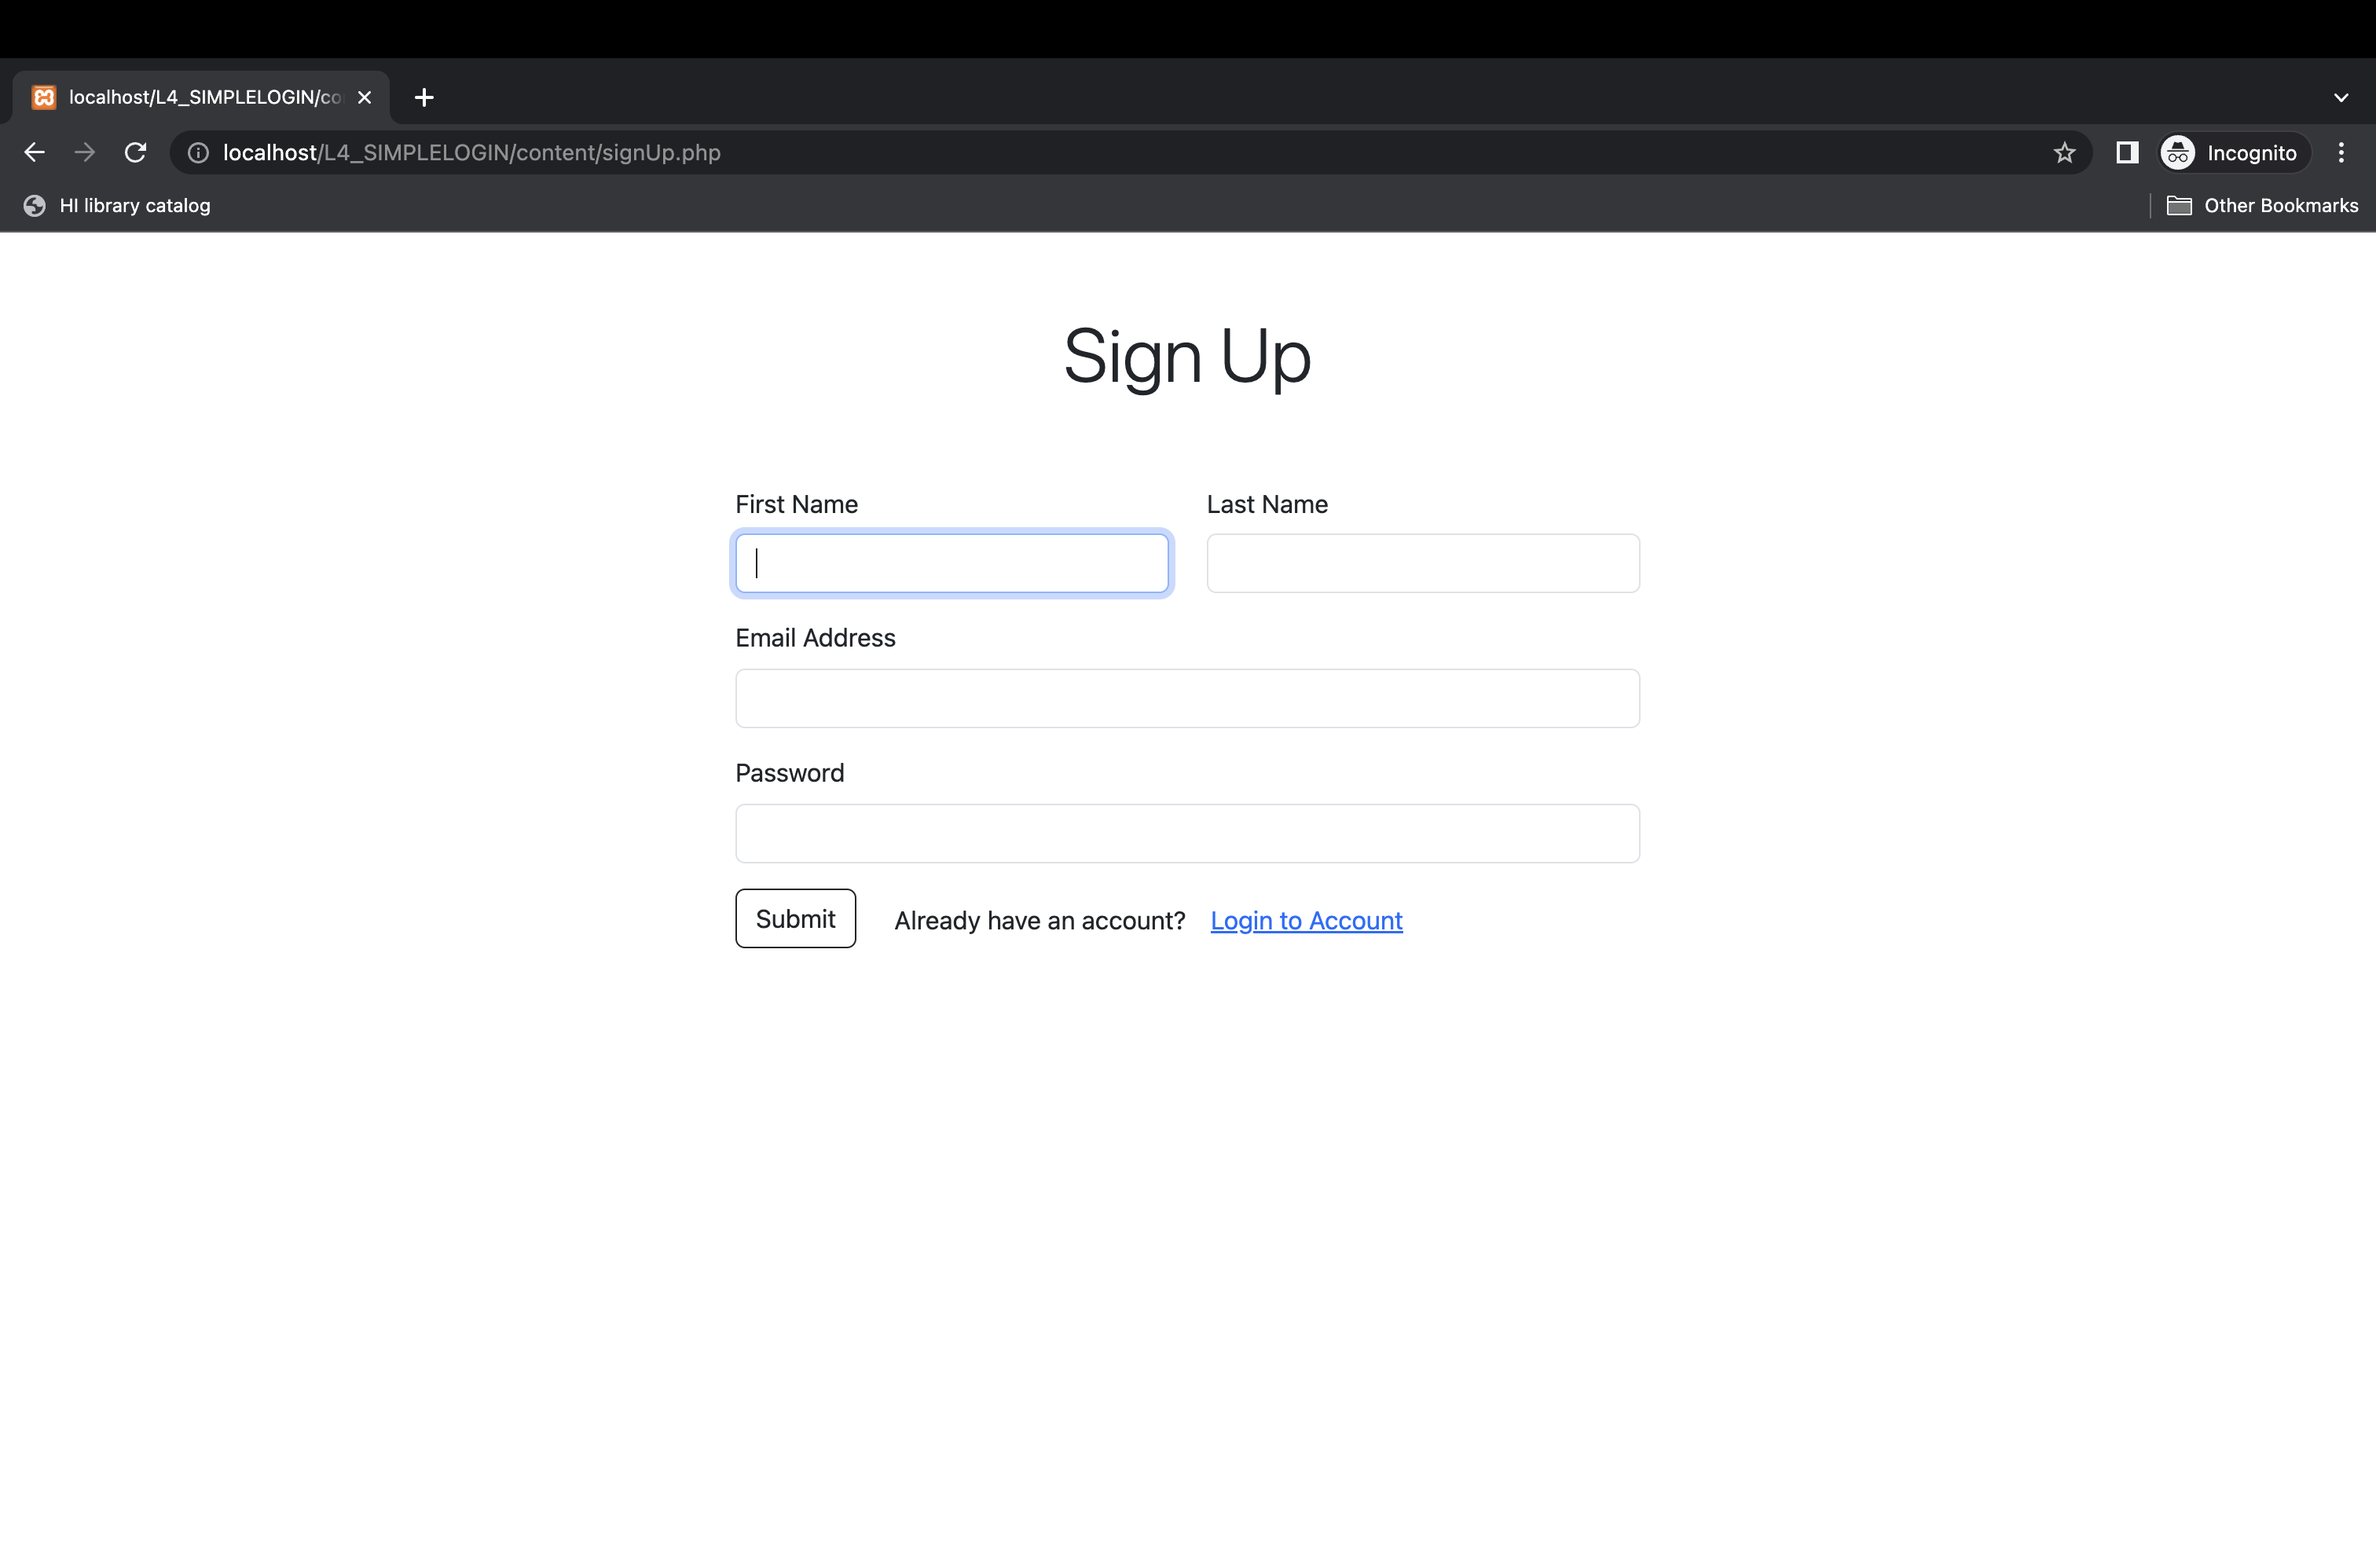
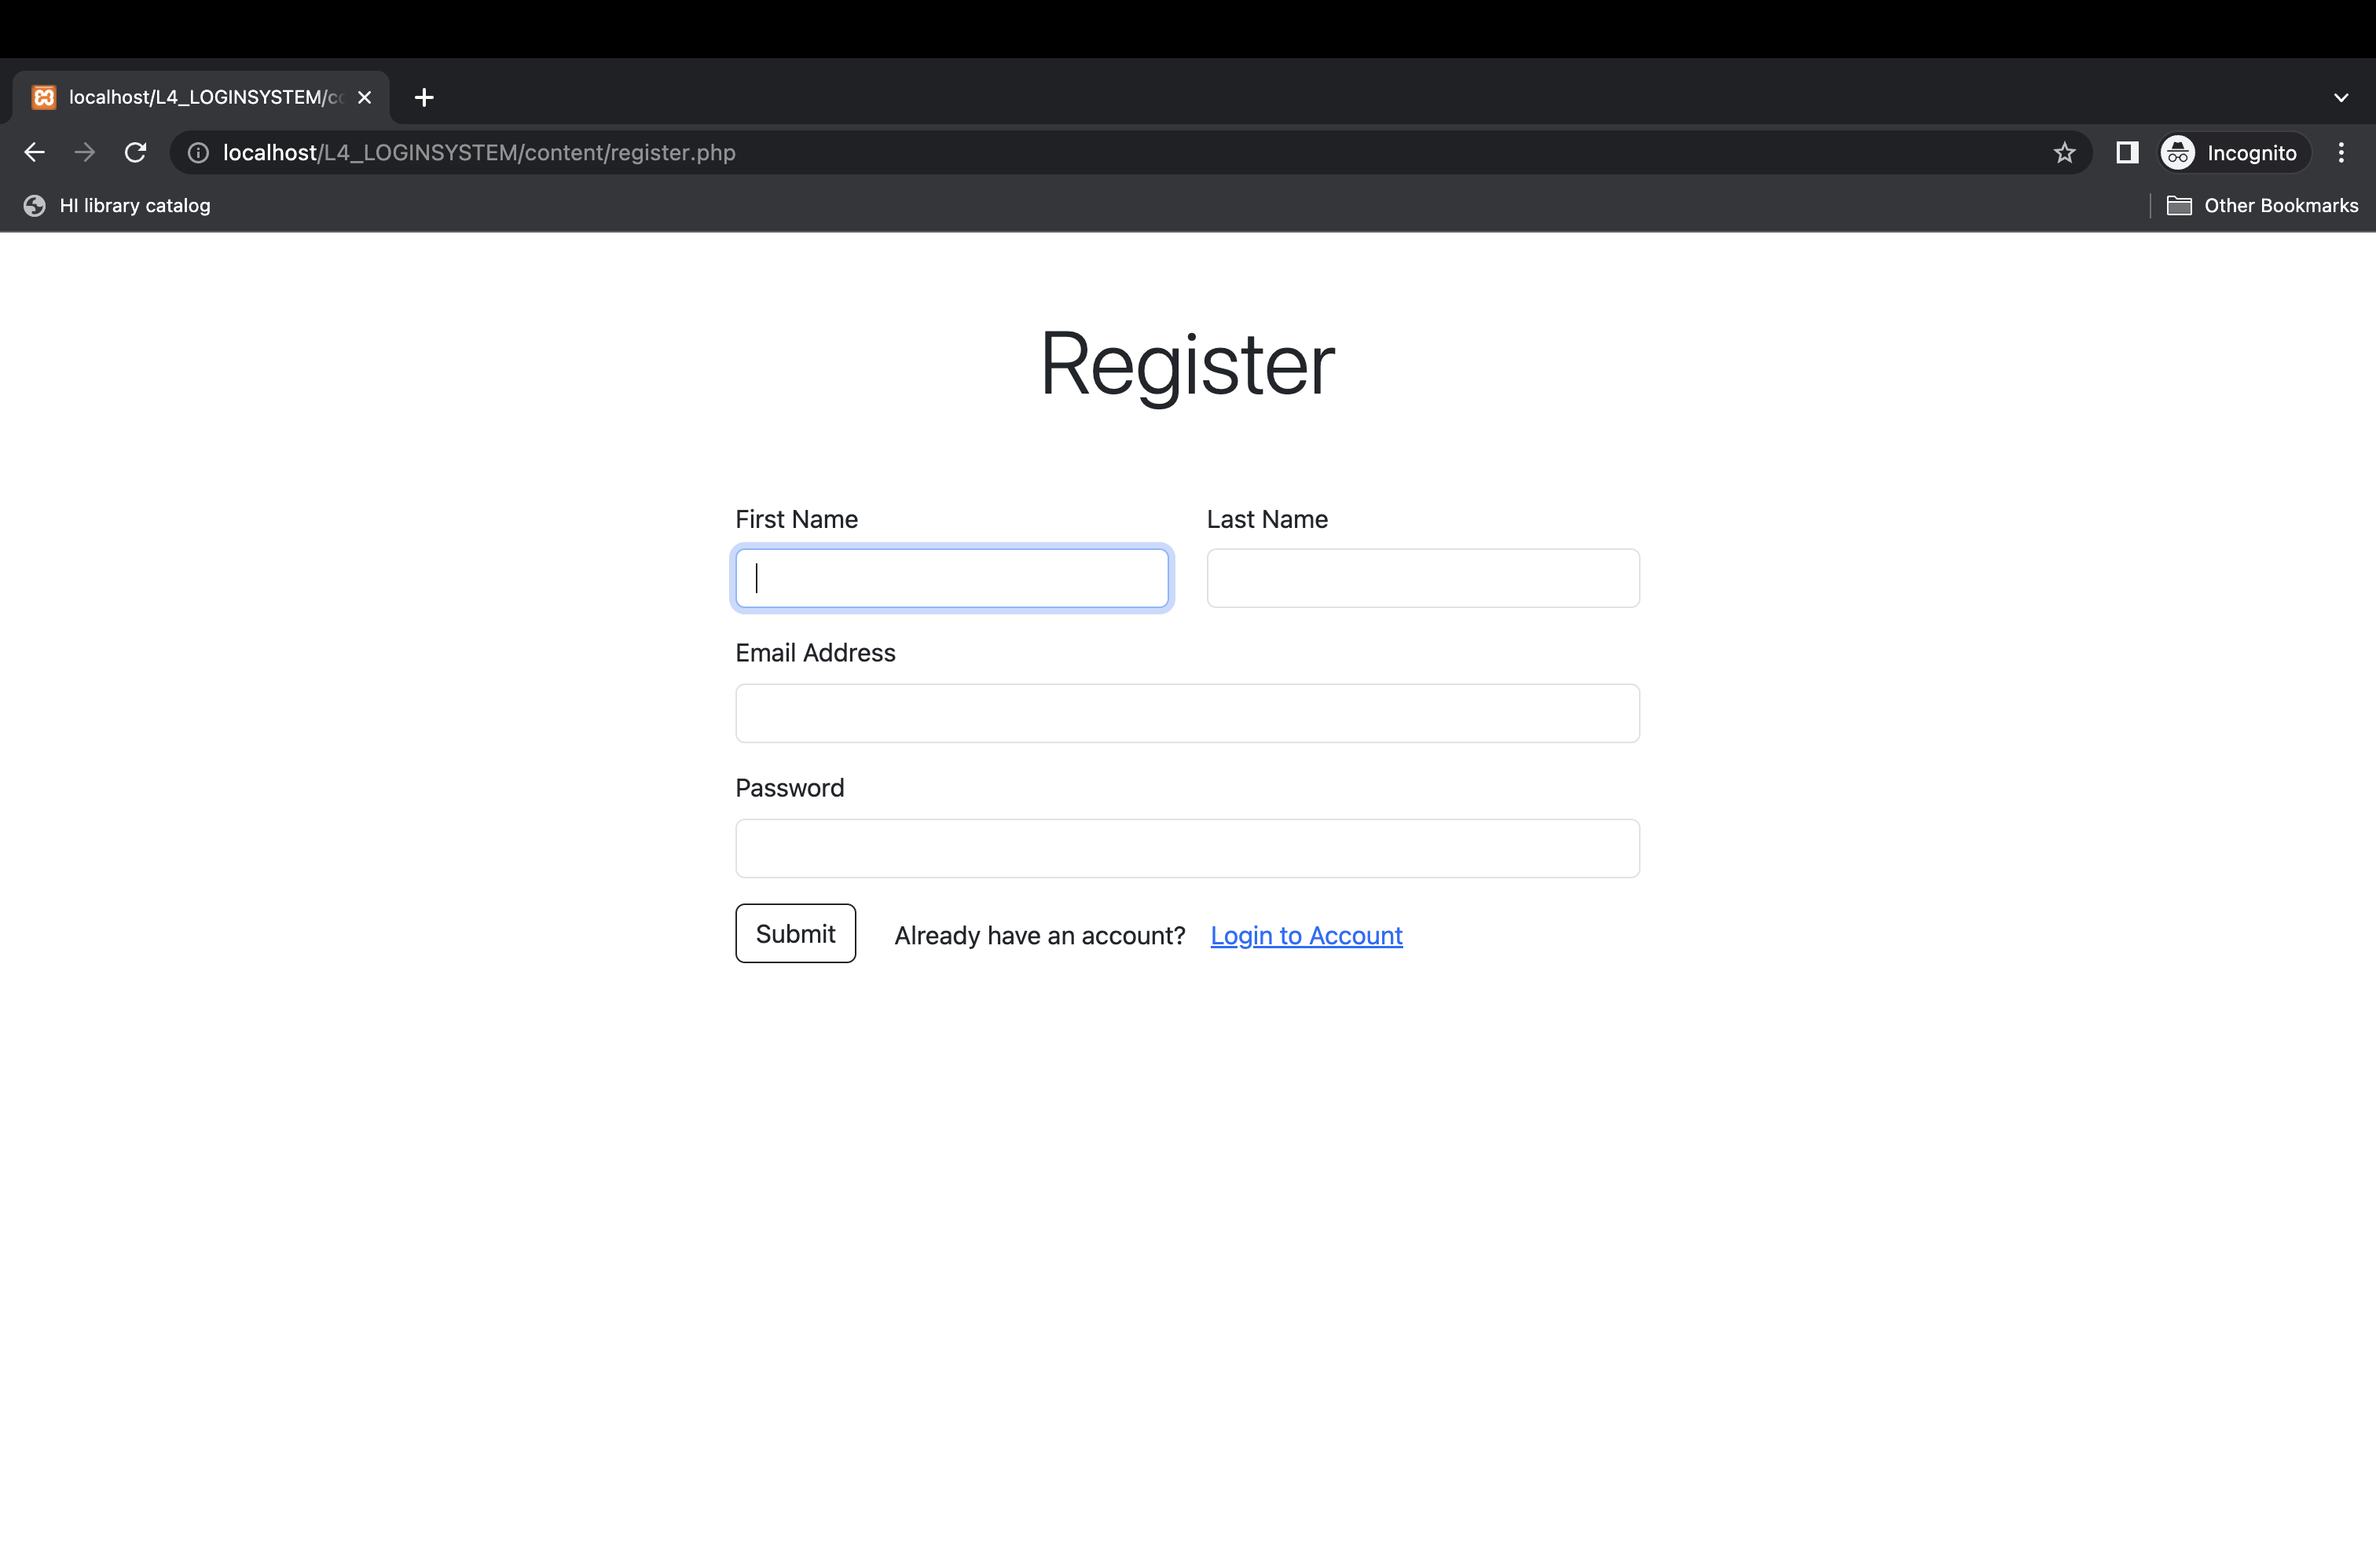
Update structure and screenshots.

diff --git a/content/login.php b/content/login.php
@@ -40,8 +40,8 @@
                     // redirect to user dashboard
                     header("Location: ./index.php");
                 } else {
-                    echo   "<div class='form mt-5'>
-                                <h1 class='display-3 mb-5'>Incorrect email or password.</h1>
+                    echo   "<div class='form text-center mt-5'>
+                                <h1 class='display-5 mb-5'>Incorrect email or password.</h1>
                                 <p>Try to <a href='./login.php'>log in</a> again.</p>
                             </div>";
                 }
@@ -49,7 +49,7 @@
         ?>
 
         <form method="post" name="login" class="container mt-5">
-            <h1 class="display-5 text-center">Log In</h1>
+            <h1 class="display-4 text-center">Log In</h1>
 
             <div class="row m-5">
                 <div class="col"></div>
@@ -71,7 +71,7 @@
                         </div>
 
                         <div class="col-auto pt-2">
-                            <p>Don't have an account?&emsp;<a href="./signUp.php">Sign Up</a></p>
+                            <p>Don't have an account?&emsp;<a href="./register.php">Sign Up</a></p>
                         </div>
                     </div>
                 </div>

diff --git a/content/register.php b/content/register.php
@@ -44,16 +44,16 @@
                                 <p class='text-center'><a href='./login.php'>Log in</a> to your new account.</p>
                             </div>";
                 } else {
-                    echo "<div class='form mt-5'>
-                                <h1 class='display-5 text-center mb-5'>You are missing required fields.</h1>
-                                <p class='text-center'>Try to <a href='./signUp.php'>sign up</a> again.</p>
+                    echo "<div class='form text-center mt-5'>
+                                <h1 class='display-5 mb-5'>You are missing required fields.</h1>
+                                <p>Try to <a href='./register.php'>register</a> again.</p>
                             </div>";
                 }
             } else {
         ?>
 
         <form action="" method="post" class="container mt-5">
-            <h1 class="display-5 text-center">Sign Up</h1>
+            <h1 class="display-4 text-center">Register</h1>
 
             <div class="row m-5">
                 <div class="col"></div>
